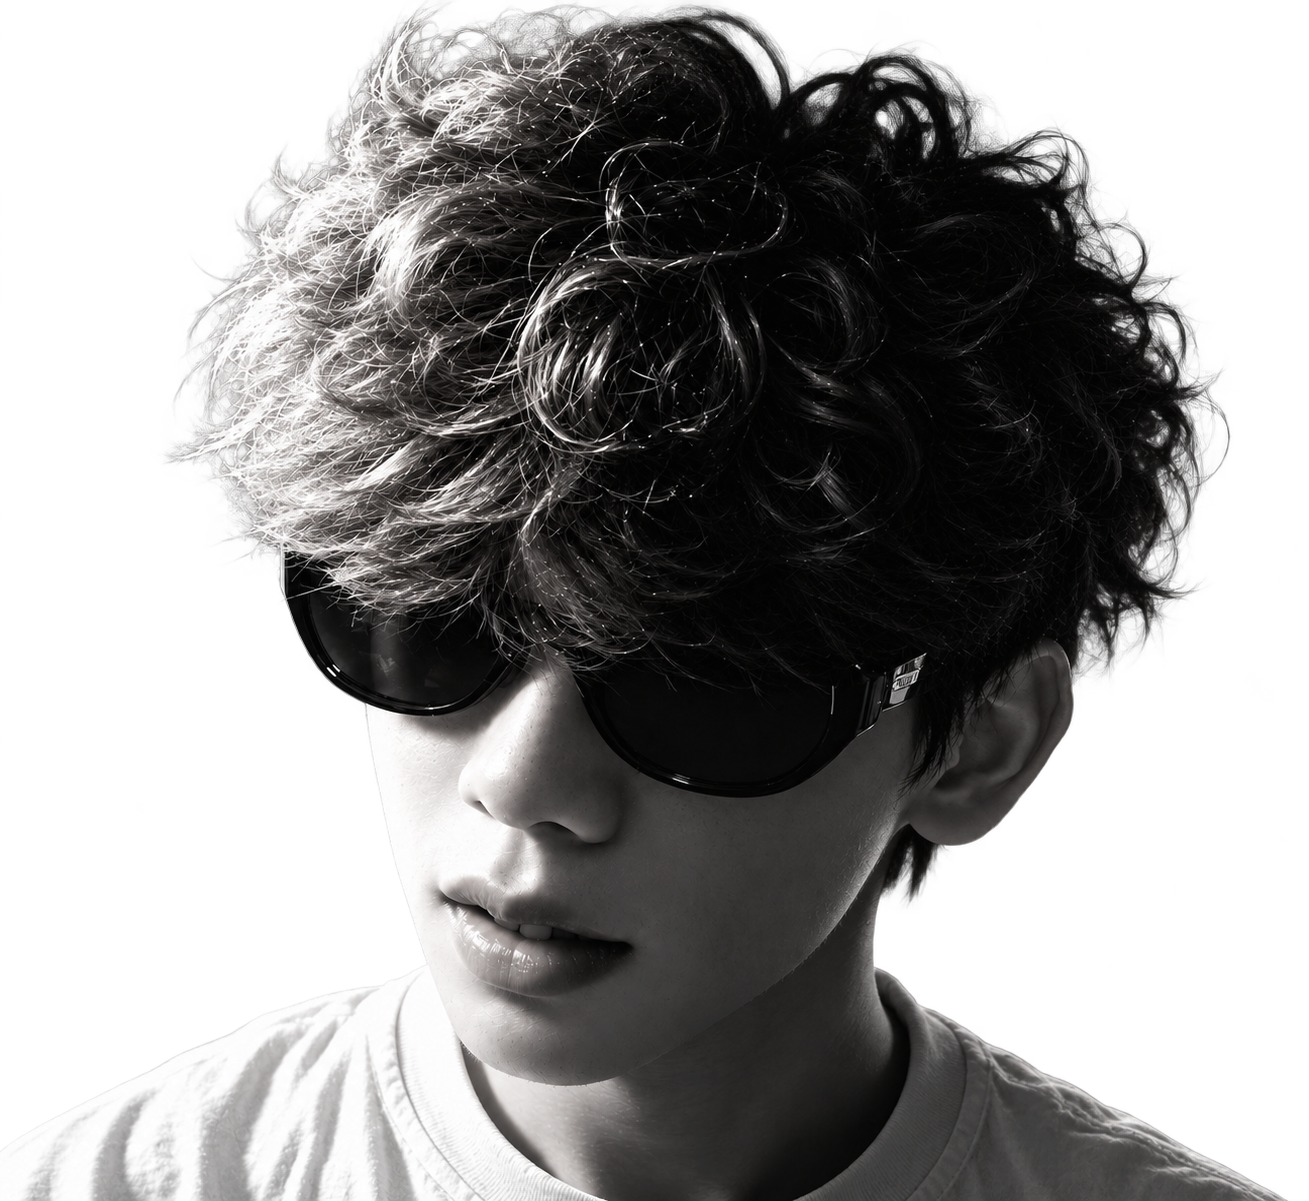
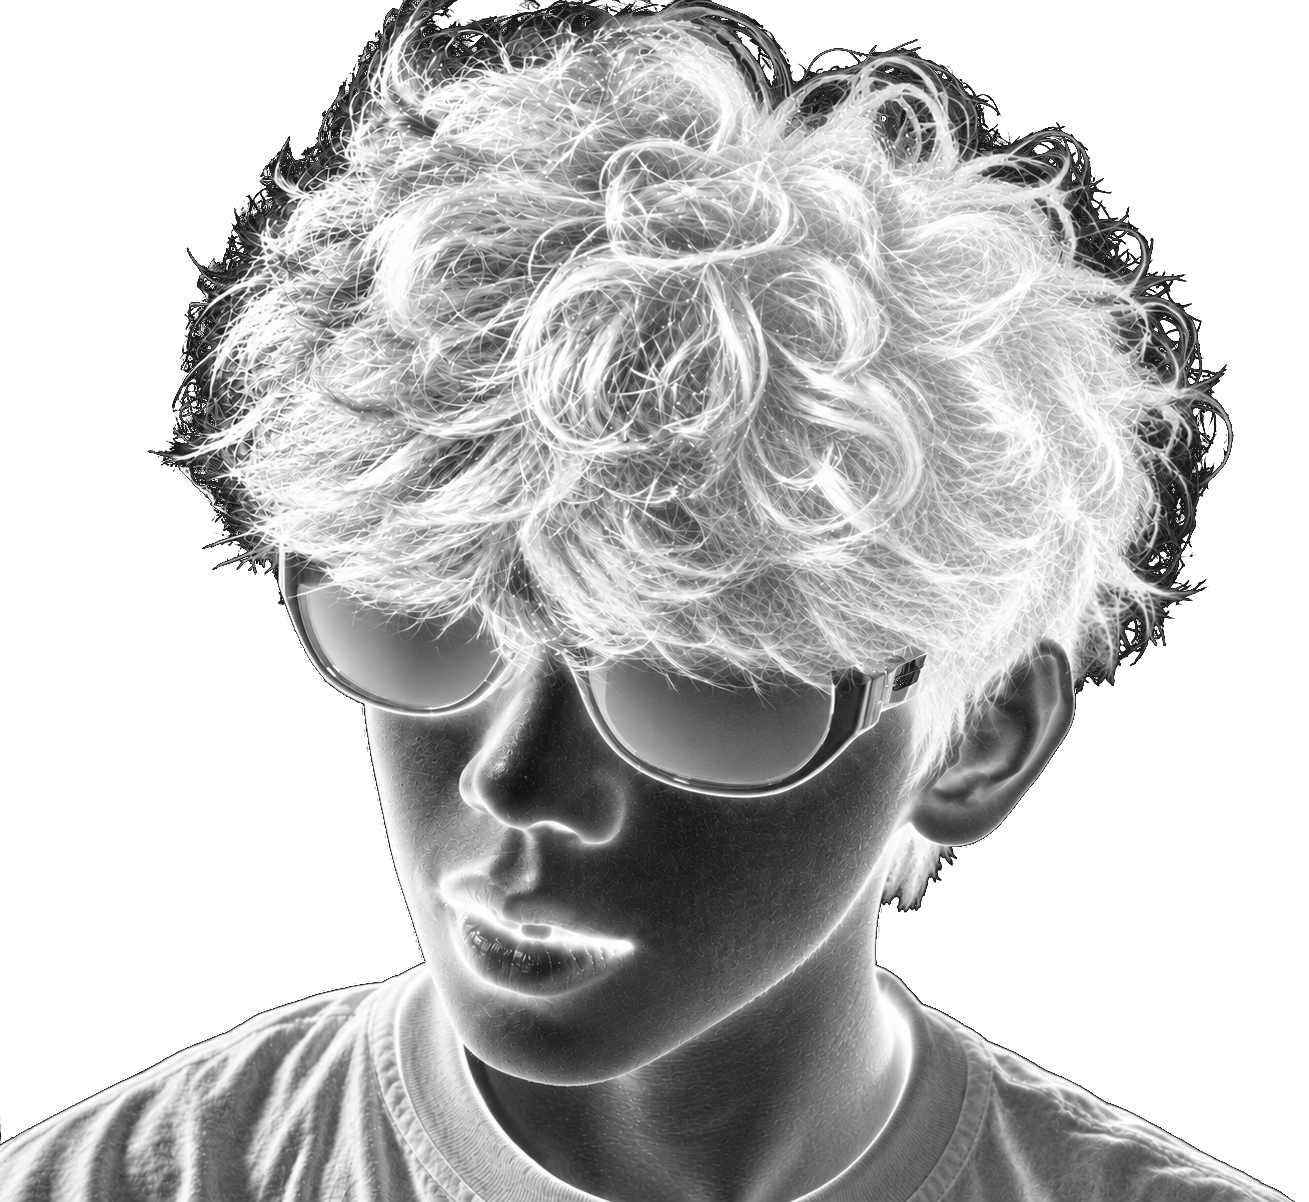
Add signature splash intro and replace hero portrait

diff --git a/index.html b/index.html
@@ -1,6 +1,7 @@
 <!doctype html>
-<html lang="zh-CN"><head><meta charset="utf-8"><meta name="viewport" content="width=device-width,initial-scale=1"><meta name="theme-color" content="#080808"><meta name="description" content="Kaixiang Nie / NKX — 作品、代码与网络印记。"><title>QQ.SG — Kaixiang Nie</title><link rel="stylesheet" href="scroll.css"><link rel="stylesheet" href="scenes.css"><link rel="stylesheet" href="cinema.css"><link rel="stylesheet" href="portrait-fx.css"><link rel="stylesheet" href="works-transition.css"></head>
+<html lang="zh-CN"><head><meta charset="utf-8"><meta name="viewport" content="width=device-width,initial-scale=1"><meta name="theme-color" content="#080808"><meta name="description" content="Kaixiang Nie / NKX — 作品、代码与网络印记。"><title>QQ.SG — Kaixiang Nie</title><style>.splash{display:none}html.js .splash{display:flex;position:fixed;inset:0;z-index:9999;align-items:center;justify-content:center;background:#080808;opacity:1;transition:opacity .8s ease,visibility 0s linear .8s}html.js .splash.is-leaving{opacity:0;visibility:hidden;pointer-events:none}.splash-inner{display:flex;flex-direction:column;align-items:center;gap:30px;transition:opacity .5s ease,transform .55s cubic-bezier(.4,0,.2,1)}.splash.is-done .splash-inner{opacity:0;transform:translateY(-16px)}.splash-signature{width:min(44vw,360px)}html.js .splash .signature{width:100%;max-width:none;margin:0}.splash-mark{font-size:9px;letter-spacing:.46em;text-indent:.46em;color:#7d7b72}html.js.splash-lock{overflow:hidden}@media(max-width:760px){.splash-signature{width:min(62vw,250px)}}@media(prefers-reduced-motion:reduce){html.js .splash{display:none!important}}</style><script>document.documentElement.classList.add('js')</script><link rel="stylesheet" href="scroll.css"><link rel="stylesheet" href="scenes.css"><link rel="stylesheet" href="cinema.css"><link rel="stylesheet" href="portrait-fx.css"><link rel="stylesheet" href="works-transition.css"></head>
 <body class="cinema-edition">
+<div class="splash" id="splash" aria-hidden="true"><div class="splash-inner"><div class="splash-signature" id="splashSignature"></div><span class="splash-mark">QQ.SG</span></div></div>
 <a class="skip-link" href="#works">跳到作品</a>
 <header class="site-header"><a class="brand" href="#home" aria-label="QQ.SG 首页">QQ.SG</a><nav class="site-nav" aria-label="章节导航"><a href="#home" aria-current="page">Home</a><a href="#works">Works</a><a href="#imprints">Imprints</a><a href="#about">About</a></nav></header>
 <main class="story">
@@ -131,5 +132,5 @@
 </main>
 <div class="journey" aria-hidden="true"><span class="journey-index">01</span><span class="journey-line"><i></i></span><span class="journey-label">Introduction</span></div>
 <div class="film-grain" aria-hidden="true"></div><div class="frame" aria-hidden="true"></div>
-<script src="scroll.js"></script><script src="works-transition.js"></script><script src="portrait-fx.js"></script><script src="hero-ink-fx.js"></script>
+<script src="splash.js" onerror="document.documentElement.classList.remove('js')"></script><script src="scroll.js"></script><script src="works-transition.js"></script><script src="portrait-fx.js"></script><script src="hero-ink-fx.js"></script>
 </body></html>

diff --git a/splash.js b/splash.js
@@ -1,0 +1,81 @@
+(() => {
+  const root = document.documentElement;
+  const splash = document.getElementById('splash');
+  const host = document.getElementById('splashSignature');
+  const source = document.querySelector('#home .signature');
+  const motion = matchMedia('(prefers-reduced-motion: reduce)');
+  const small = matchMedia('(max-width: 760px)');
+  let finished = false;
+  let revealed = false;
+
+  function revealHero() {
+    if (revealed) return;
+    revealed = true;
+    dispatchEvent(new Event('qqsg:reveal'));
+  }
+
+  function cleanup() {
+    if (finished) return;
+    finished = true;
+    splash?.remove();
+    root.classList.remove('js','splash-lock','js-splash');
+    revealHero();
+  }
+
+  if (!splash || !host || !source || motion.matches) {
+    cleanup();
+    return;
+  }
+
+  root.classList.add('js-splash','splash-lock');
+  if (!location.hash && 'scrollRestoration' in history) {
+    history.scrollRestoration = 'manual';
+    scrollTo(0,0);
+  }
+
+  const clone = source.cloneNode(true);
+  host.appendChild(clone);
+  const paths = [...clone.querySelectorAll('.sig')];
+  const wait = ms => new Promise(resolve => setTimeout(resolve, ms));
+
+  if (!paths.length) {
+    cleanup();
+    return;
+  }
+
+  const target = small.matches ? 1700 : 2200;
+  const lengths = paths.map(path => Math.max(1,path.getTotalLength()));
+  const total = lengths.reduce((sum,value) => sum + value,0);
+  let cursor = 120;
+  const animations = paths.map((path,i) => {
+    const tiny = lengths[i] < 10;
+    const duration = tiny ? 70 : Math.max(110,target * lengths[i] / total);
+    const animation = path.animate(
+      [{strokeDasharray:'1',strokeDashoffset:'1'},{strokeDasharray:'1',strokeDashoffset:'0'}],
+      {duration,delay:cursor,easing:'cubic-bezier(.25,.03,.16,1)',fill:'backwards'}
+    );
+    cursor += duration + (tiny ? 18 : 26);
+    return animation;
+  });
+
+  const loaded = document.readyState === 'complete'
+    ? Promise.resolve()
+    : new Promise(resolve => addEventListener('load',resolve,{once:true}));
+
+  Promise.all([
+    animations[animations.length - 1].finished.catch(() => {}),
+    Promise.race([loaded,wait(6500)])
+  ]).then(() => wait(260)).then(() => {
+    if (finished) return;
+    splash.classList.add('is-done');
+    setTimeout(() => {
+      if (finished) return;
+      revealHero();
+      splash.classList.add('is-leaving');
+      setTimeout(cleanup,850);
+    },430);
+  });
+
+  addEventListener('pageshow',event => { if (event.persisted) cleanup(); });
+  setTimeout(cleanup,9000);
+})();

diff --git a/scroll.js b/scroll.js
@@ -16,7 +16,8 @@
     });
   }
   document.getElementById('replay').addEventListener('click',play);
-  play();
+  if (document.documentElement.classList.contains('js-splash')) addEventListener('qqsg:reveal',play,{once:true});
+  else play();
 
   // Reveal content in its natural flow on smaller screens.
   const reveals = [...document.querySelectorAll('.works-title,.project-copy,.imprint-copy,.closing-copy')];
